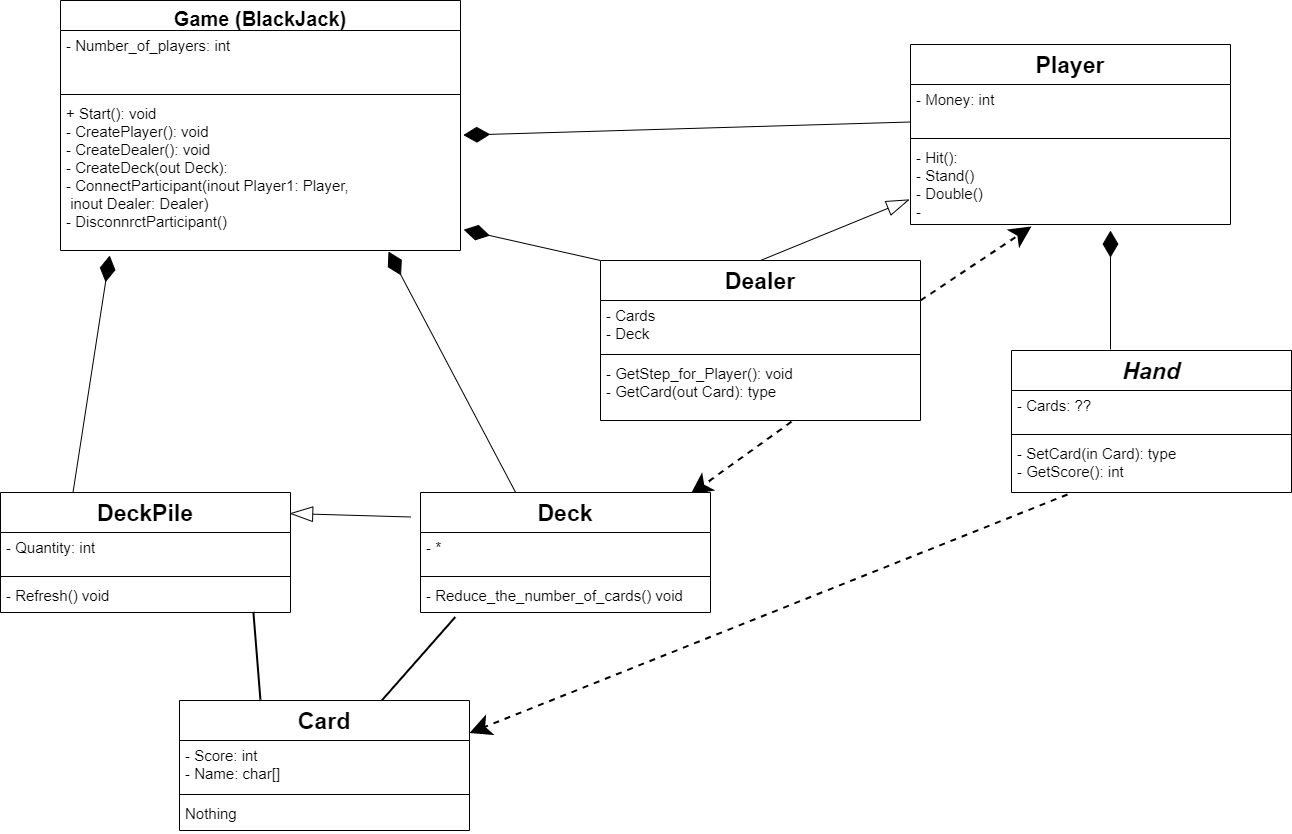
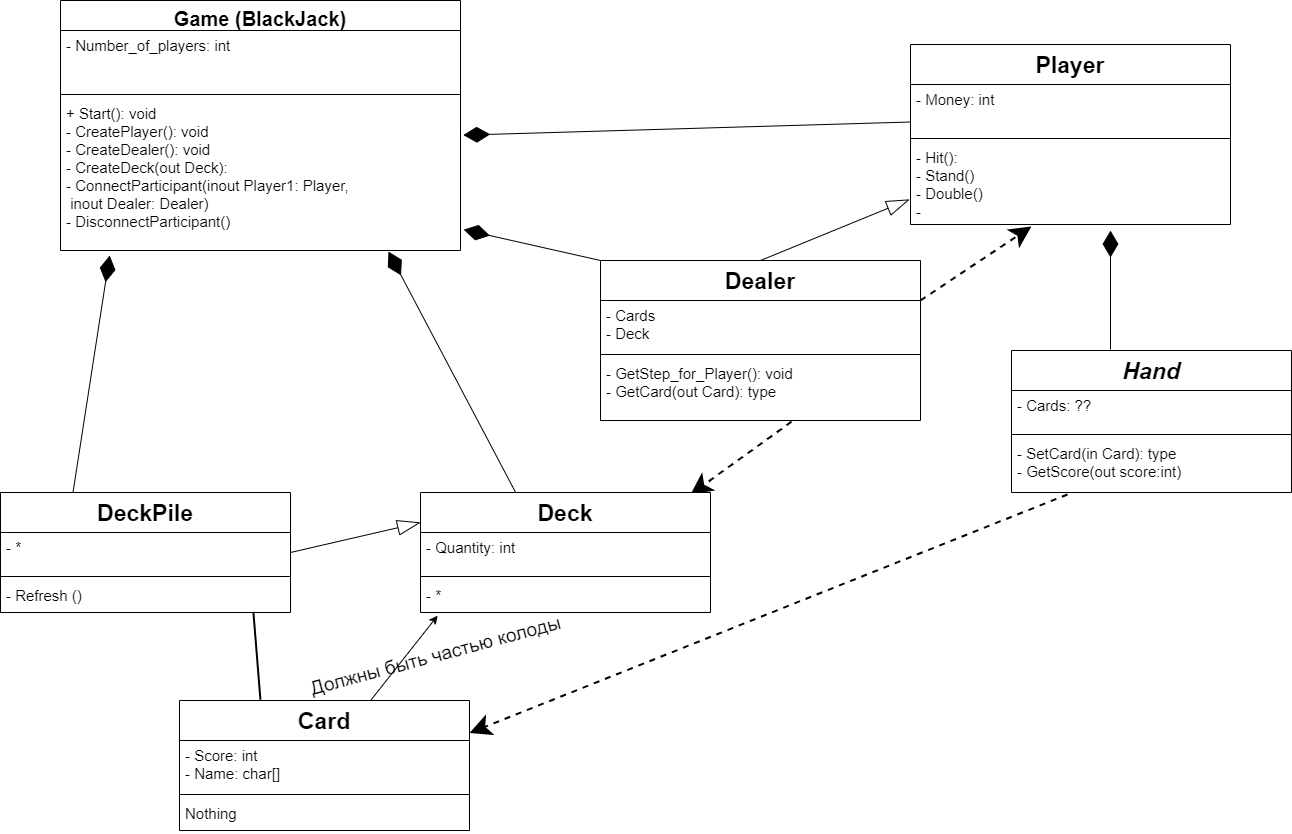
Made patterns for class

diff --git a/Game/Game.h b/Game/Game.h
@@ -1,4 +1,20 @@
+#include <Cards.h>
+#include <Dealer.h>
+#include <Hand.h>
+#include <Player.h>
+
+#pragma once
+
+
 class BlackJackGame{
+    int Numbers_of_players=0;
+
+    void CreatePlayer(){}
+    void CreateDealer(){}
+    void CreateDeck(){}
+    void ConnectParticipant(){}
+    void DisconnectParticipant(){}
+
 public:
     void Start(){
 

diff --git a/Game/Cards/Cards.h b/Game/Cards/Cards.h
@@ -1,0 +1,13 @@
+#pragma once
+
+class Card {
+
+};
+
+class Deck{
+
+};
+
+class  DeckPile{
+
+};

diff --git a/Game/Dealer/Dealer.cpp b/Game/Dealer/Dealer.cpp
@@ -1,0 +1,5 @@
+//
+// Created by Ivan on 13.07.2020.
+//
+
+#include "Dealer.h"

diff --git a/Game/Player/Player.cpp b/Game/Player/Player.cpp
@@ -1,0 +1,5 @@
+//
+// Created by Ivan on 13.07.2020.
+//
+
+#include "Player.h"

diff --git a/Game/Cards/Cards.cpp b/Game/Cards/Cards.cpp
@@ -1,0 +1,5 @@
+//
+// Created by Ivan on 13.07.2020.
+//
+
+#include "Cards.h"

diff --git a/Game/Hand/Hand.cpp b/Game/Hand/Hand.cpp
@@ -1,0 +1,5 @@
+//
+// Created by Ivan on 13.07.2020.
+//
+
+#include "Hand.h"

diff --git a/Game/Dealer/Dealer.h b/Game/Dealer/Dealer.h
@@ -1,0 +1,5 @@
+#pragma once
+
+class Dealer {
+
+};

diff --git a/Game/Player/Player.h b/Game/Player/Player.h
@@ -1,0 +1,5 @@
+#pragma once
+
+class Player {
+
+};

diff --git a/Game/Hand/Hand.h b/Game/Hand/Hand.h
@@ -1,0 +1,5 @@
+#pragma once
+
+class Hand {
+
+};
